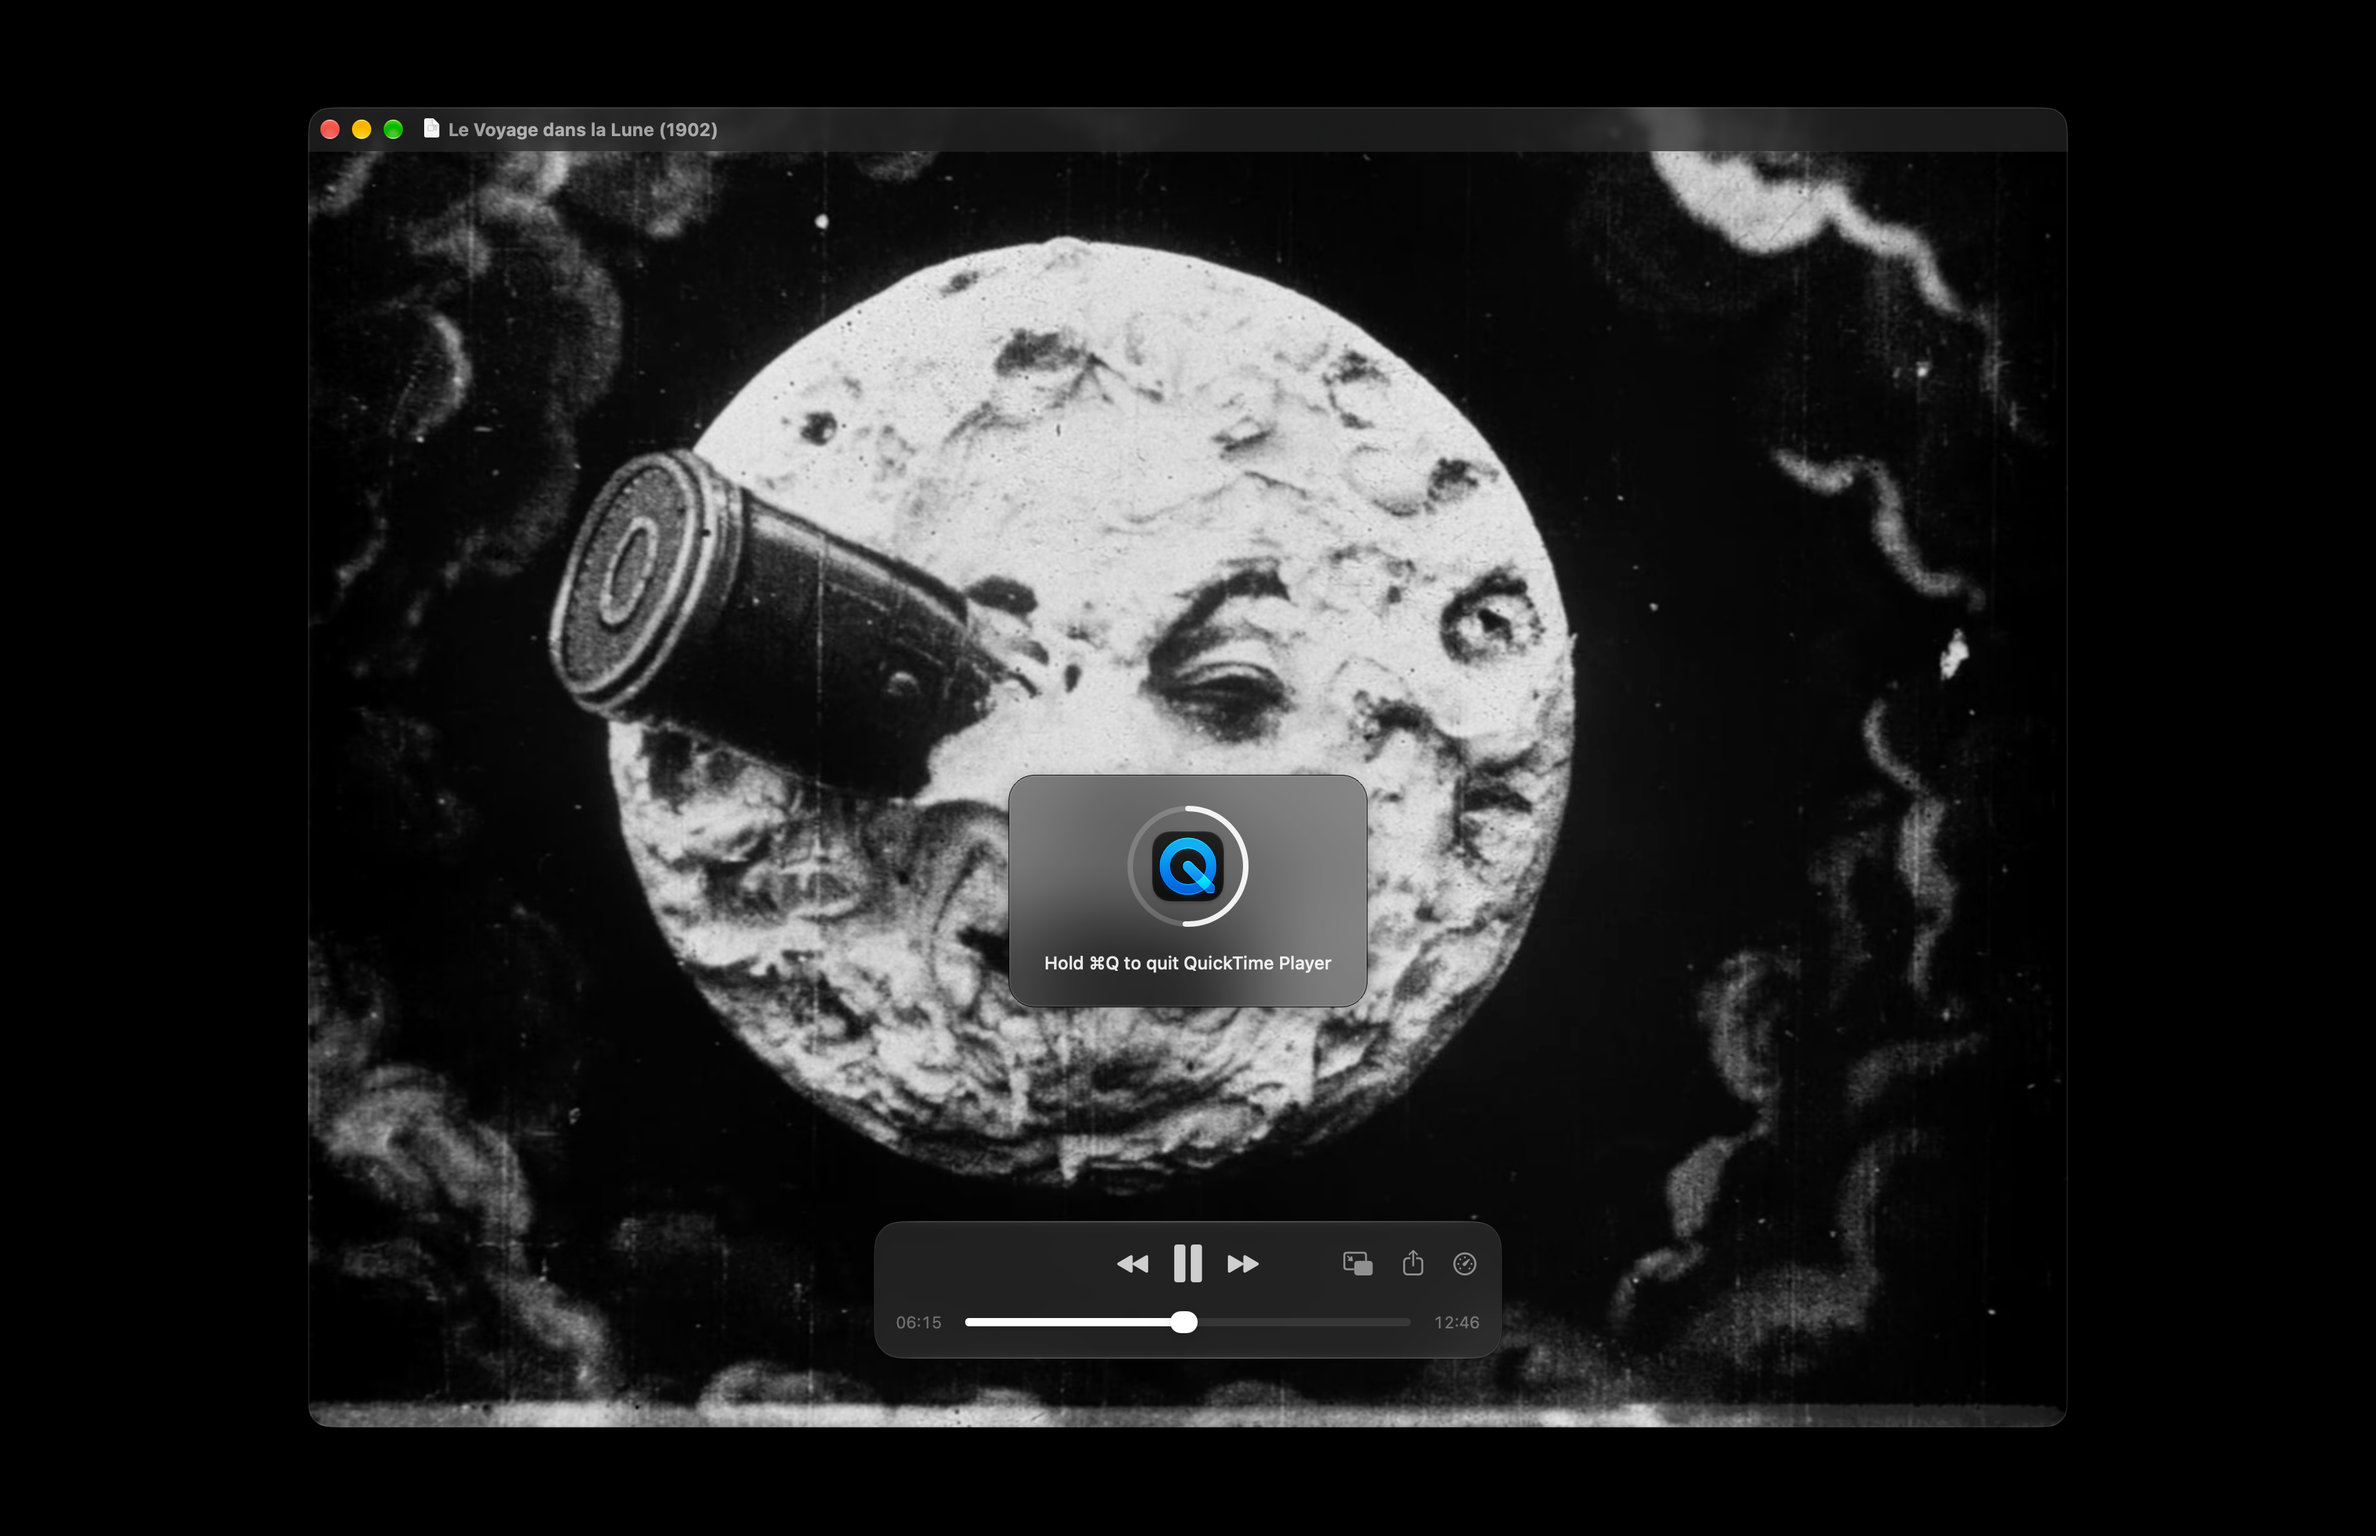
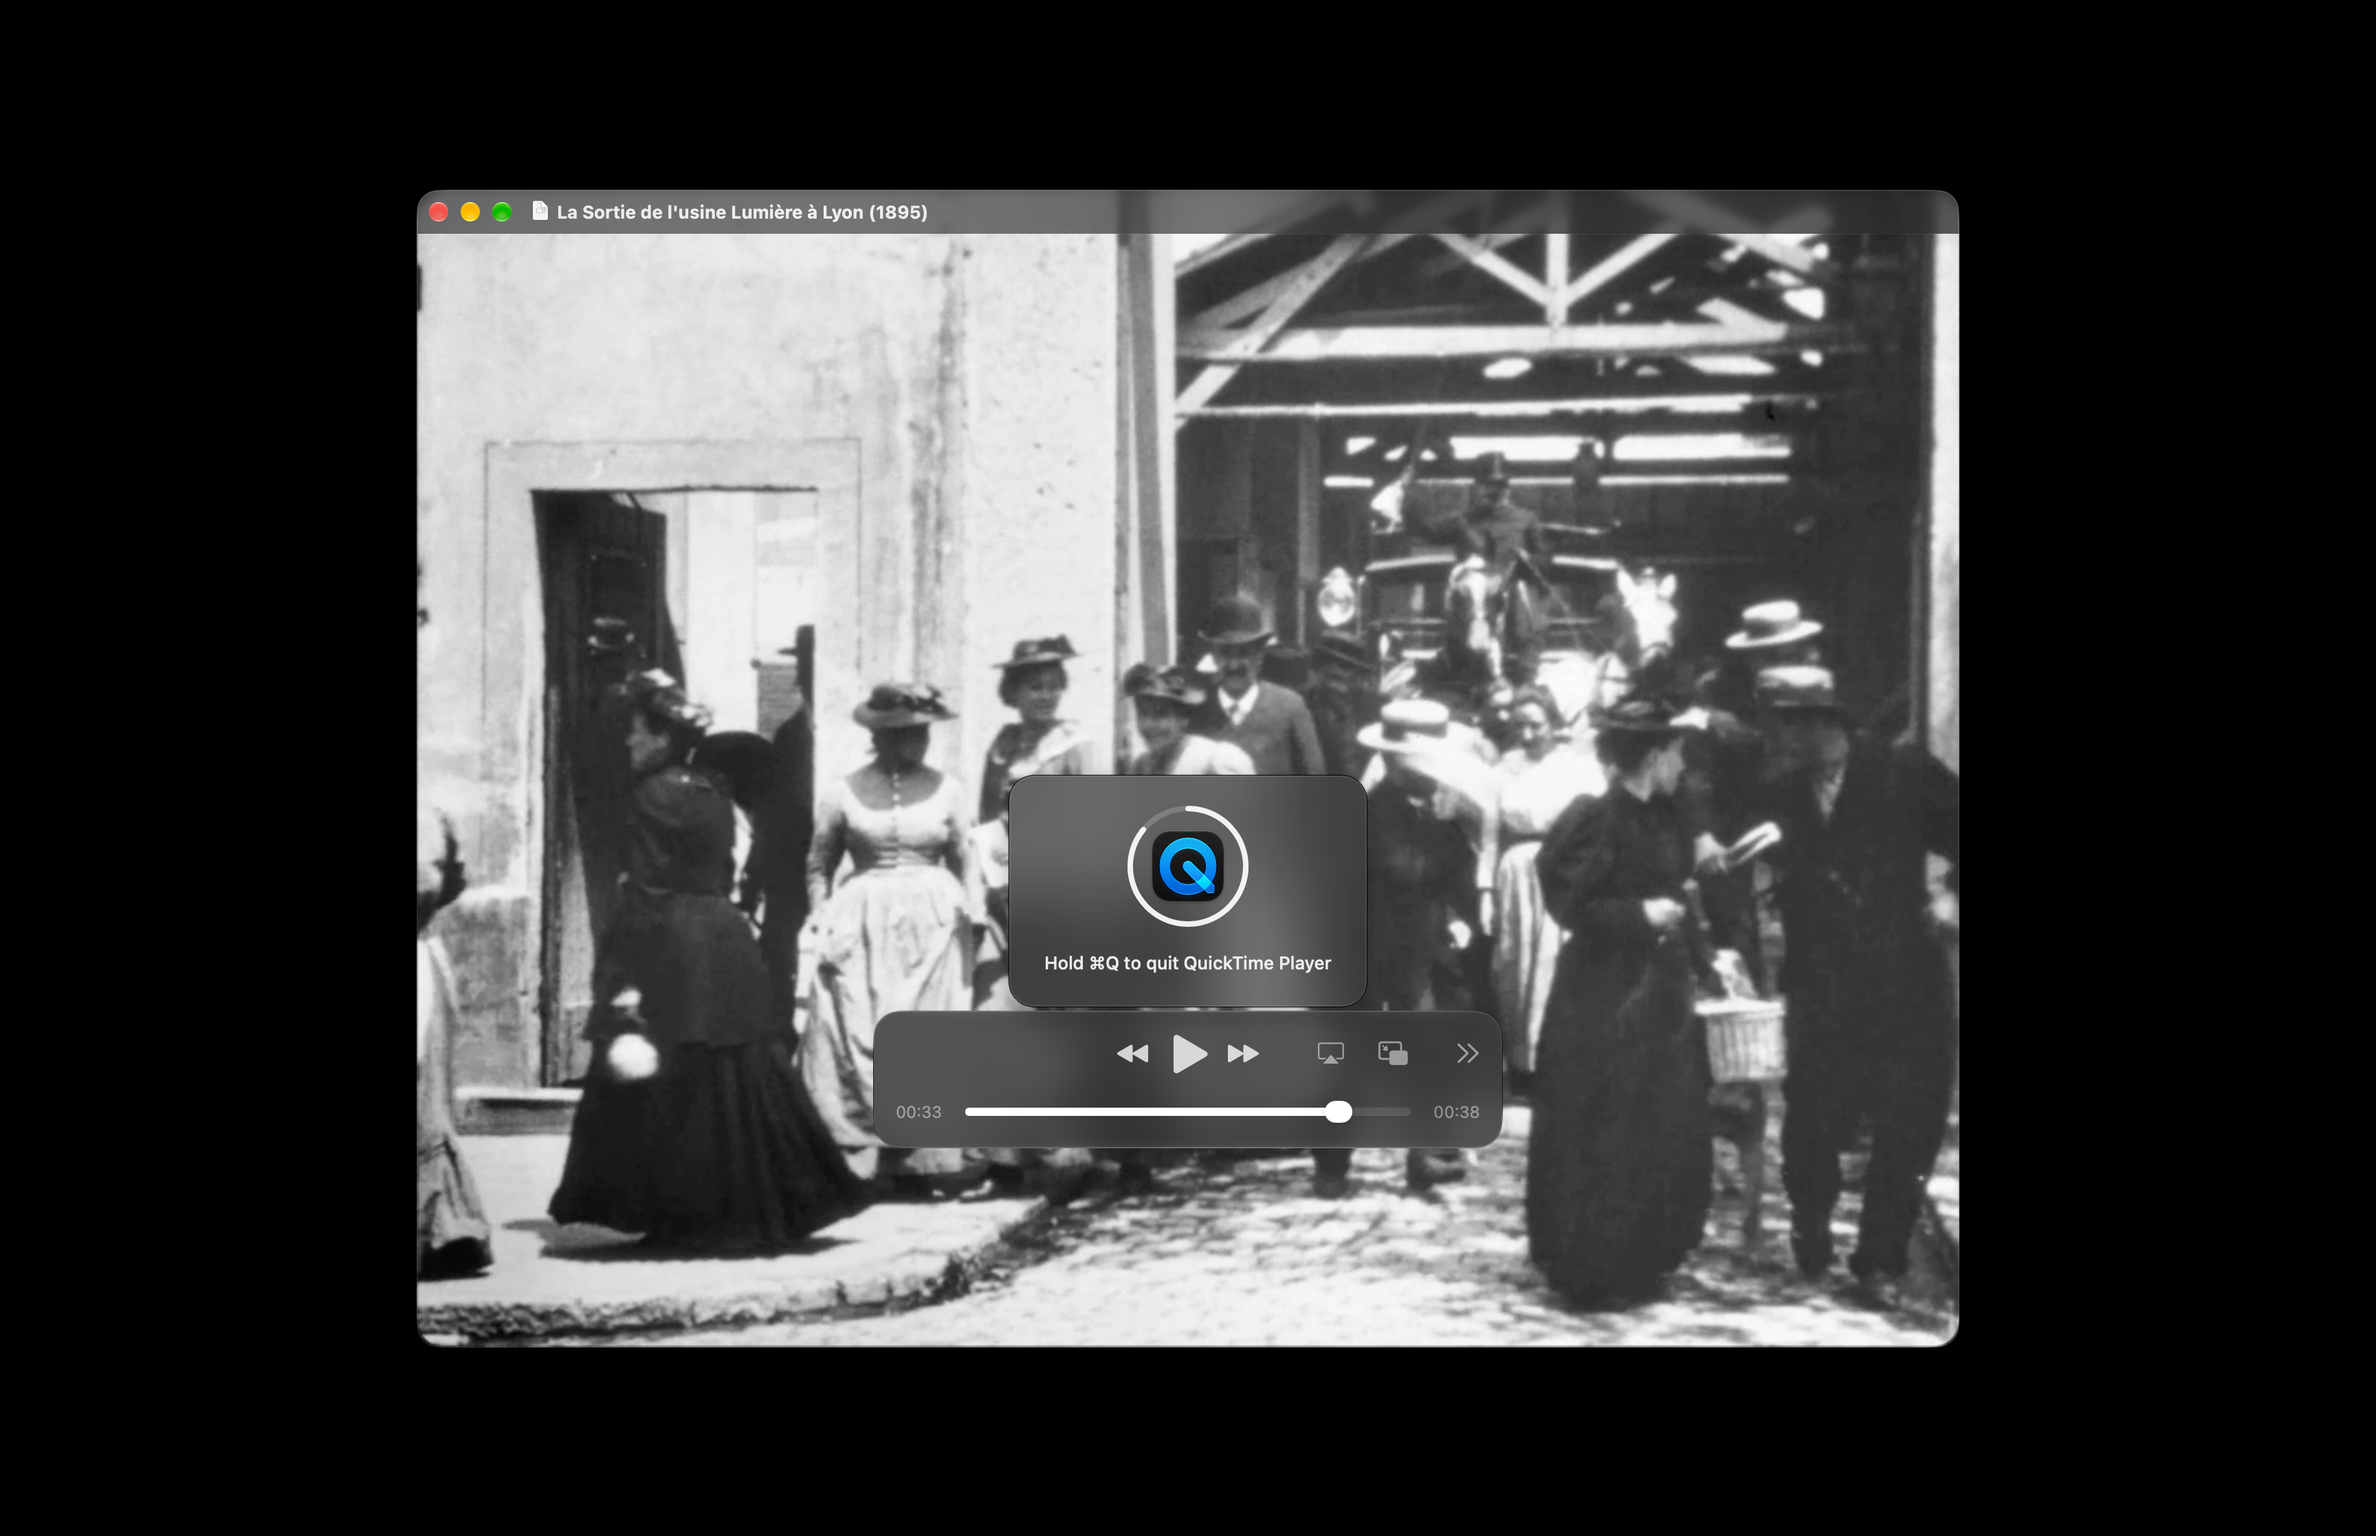
README: new screenshots
Reshot 2026-11-26 on macOS 27, light and dark pairs, lossless WebP.

diff --git a/README.md b/README.md
@@ -4,6 +4,8 @@
 
 Quit protection for Mac. ⌘Q quits an app only when held for a second.
 
+<picture><source media="(prefers-color-scheme: dark)" srcset="docs/scene.webp"><img src="docs/scene-light.webp" width="830" alt="QuickTime Player with the Lumière brothers’ La Sortie de l’usine Lumière à Lyon (1895) at 0:33 of 0:38, and HoldQ’s sign “Hold ⌘Q to quit QuickTime Player” over it, its ring filled as far as the playback bar"></picture>
+
 Apple silicon, macOS 13 or later.
 
 ## Install
